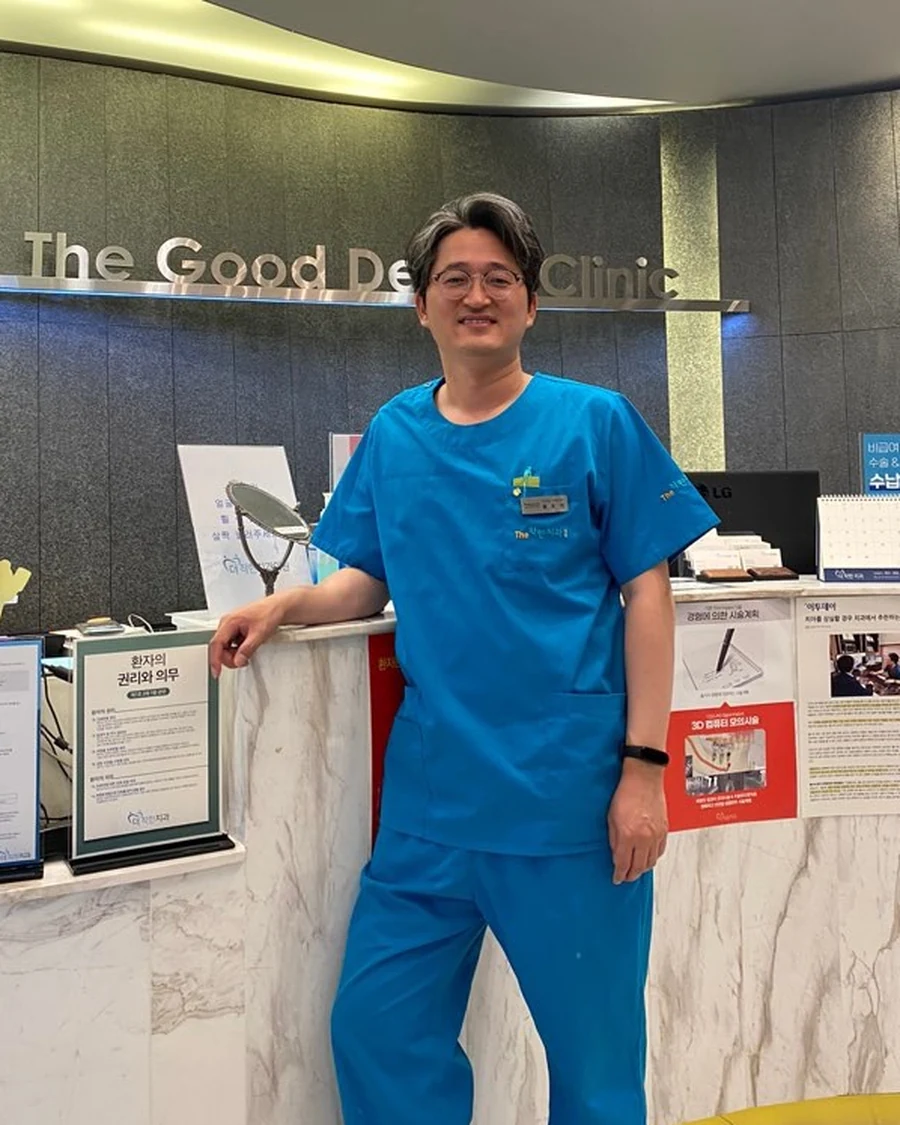
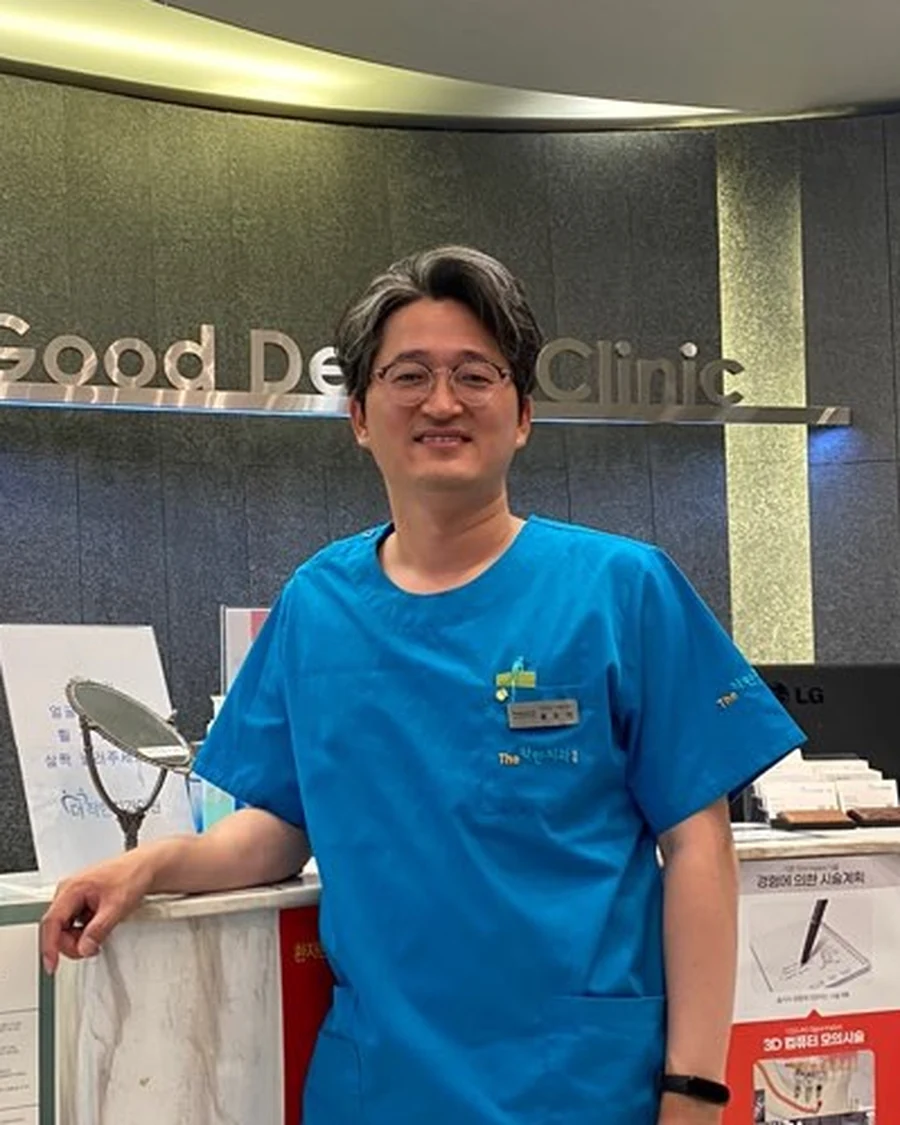
feat: 히어로 사진 상반신 확대 크롭 (얼굴·눈맞춤 강조)
- director-lobby.webp 상반신 위주로 재크롭 (허리 위~머리, 사인 어깨선 위 유지)
- object-position 50% 28% (인물 상단 비중), ASSET_VERSION 20260621g → 20260621h
- 데스크탑/모바일 검증, overflow 0px

diff --git a/public/static/style.css b/public/static/style.css
@@ -404,7 +404,7 @@ section{position:relative}
 .hero-frame img{width:100%;height:100%;object-fit:cover}
 /* 대표원장 포트레이트 — 회색 스튜디오 배경을 브랜드 톤으로 감싸고, 인물 상단 정렬 */
 .hero-frame.hero-portrait{background:linear-gradient(160deg,var(--bg-dark-2) 0%,var(--bg-dark) 100%)}
-.hero-frame.hero-portrait img{object-position:50% 50%}
+.hero-frame.hero-portrait img{object-position:50% 28%}
 .hero-frame.hero-portrait::after{
   background:linear-gradient(180deg,transparent 48%,rgba(8,20,33,.18) 70%,rgba(8,20,33,.78) 100%);
 }

diff --git a/src/lib/asset-version.ts b/src/lib/asset-version.ts
@@ -1,4 +1,4 @@
 // 정적 에셋 캐시 버스팅용 버전 문자열.
 // Cloudflare가 /static/style.css 에 immutable 1년 캐시를 걸기 때문에,
 // CSS/JS를 수정하면 이 값을 올려서 새 URL로 인식시켜야 갱신됩니다.
-export const ASSET_VERSION = '20260621g'
+export const ASSET_VERSION = '20260621h'